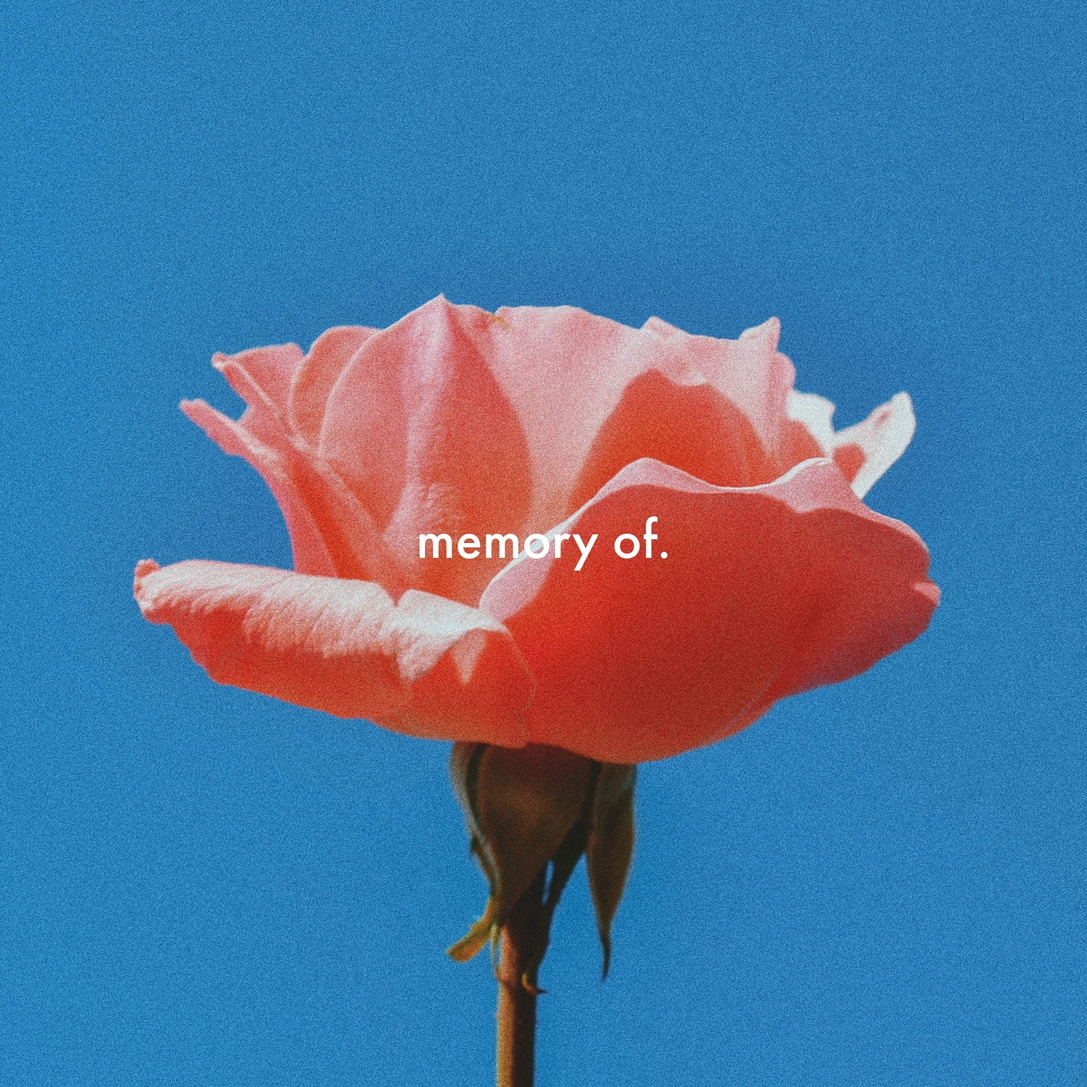
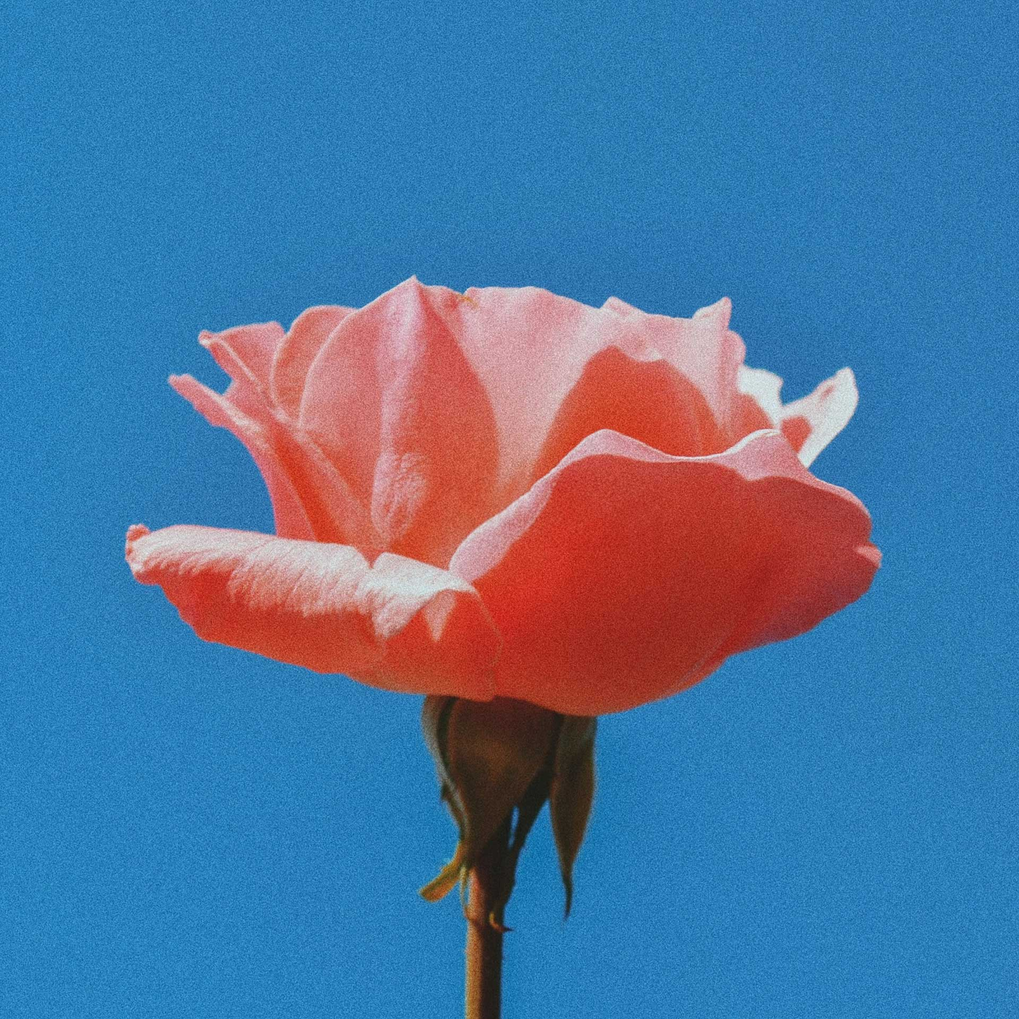
updated tablet and mobile styling to not get wider than the viewport. removed the text from the background image and compressed the image for a smaller size. Removed unneccesary files

Changed region(s): [[0.3438, 0.4688, 0.625, 0.5312]]

diff --git a/css/output.min.css b/css/output.min.css
@@ -1,1 +1,1 @@
-*,::before,::after{box-sizing:border-box;border-width:0;border-style:solid;border-color:currentColor}::before,::after{--tw-content:''}html,:host{line-height:1.5;-webkit-text-size-adjust:100%;-moz-tab-size:4;-o-tab-size:4;tab-size:4;font-family:ui-sans-serif,system-ui,sans-serif,"Apple Color Emoji","Segoe UI Emoji","Segoe UI Symbol","Noto Color Emoji";font-feature-settings:normal;font-variation-settings:normal;-webkit-tap-highlight-color:transparent}body{margin:0;line-height:inherit}hr{height:0;color:inherit;border-top-width:1px}abbr:where([title]){-webkit-text-decoration:underline dotted;text-decoration:underline dotted}h1,h2,h3,h4,h5,h6{font-size:inherit;font-weight:inherit}a{color:inherit;text-decoration:inherit}b,strong{font-weight:bolder}code,kbd,samp,pre{font-family:ui-monospace,SFMono-Regular,Menlo,Monaco,Consolas,"Liberation Mono","Courier New",monospace;font-feature-settings:normal;font-variation-settings:normal;font-size:1em}small{font-size:80%}sub,sup{font-size:75%;line-height:0;position:relative;vertical-align:baseline}sub{bottom:-0.25em}sup{top:-0.5em}table{text-indent:0;border-color:inherit;border-collapse:collapse}button,input,optgroup,select,textarea{font-family:inherit;font-feature-settings:inherit;font-variation-settings:inherit;font-size:100%;font-weight:inherit;line-height:inherit;color:inherit;margin:0;padding:0}button,select{text-transform:none}button,[type='button'],[type='reset'],[type='submit']{-webkit-appearance:button;background-color:transparent;background-image:none}:-moz-focusring{outline:auto}:-moz-ui-invalid{box-shadow:none}progress{vertical-align:baseline}::-webkit-inner-spin-button,::-webkit-outer-spin-button{height:auto}[type='search']{-webkit-appearance:textfield;outline-offset:-2px}::-webkit-search-decoration{-webkit-appearance:none}::-webkit-file-upload-button{-webkit-appearance:button;font:inherit}summary{display:list-item}blockquote,dl,dd,h1,h2,h3,h4,h5,h6,hr,figure,p,pre{margin:0}fieldset{margin:0;padding:0}legend{padding:0}ol,ul,menu{list-style:none;margin:0;padding:0}dialog{padding:0}textarea{resize:vertical}input::-moz-placeholder,textarea::-moz-placeholder{opacity:1;color:#9ca3af}input::placeholder,textarea::placeholder{opacity:1;color:#9ca3af}button,[role="button"]{cursor:pointer}:disabled{cursor:default}img,svg,video,canvas,audio,iframe,embed,object{display:block;vertical-align:middle}img,video{max-width:100%;height:auto}[hidden]{display:none}*,::before,::after{--tw-border-spacing-x:0;--tw-border-spacing-y:0;--tw-translate-x:0;--tw-translate-y:0;--tw-rotate:0;--tw-skew-x:0;--tw-skew-y:0;--tw-scale-x:1;--tw-scale-y:1;--tw-pan-x:;--tw-pan-y:;--tw-pinch-zoom:;--tw-scroll-snap-strictness:proximity;--tw-gradient-from-position:;--tw-gradient-via-position:;--tw-gradient-to-position:;--tw-ordinal:;--tw-slashed-zero:;--tw-numeric-figure:;--tw-numeric-spacing:;--tw-numeric-fraction:;--tw-ring-inset:;--tw-ring-offset-width:0;--tw-ring-offset-color:#fff;--tw-ring-color:rgb(59 130 246 / .5);--tw-ring-offset-shadow:0 0 #0000;--tw-ring-shadow:0 0 #0000;--tw-shadow:0 0 #0000;--tw-shadow-colored:0 0 #0000;--tw-blur:;--tw-brightness:;--tw-contrast:;--tw-grayscale:;--tw-hue-rotate:;--tw-invert:;--tw-saturate:;--tw-sepia:;--tw-drop-shadow:;--tw-backdrop-blur:;--tw-backdrop-brightness:;--tw-backdrop-contrast:;--tw-backdrop-grayscale:;--tw-backdrop-hue-rotate:;--tw-backdrop-invert:;--tw-backdrop-opacity:;--tw-backdrop-saturate:;--tw-backdrop-sepia:}::backdrop{--tw-border-spacing-x:0;--tw-border-spacing-y:0;--tw-translate-x:0;--tw-translate-y:0;--tw-rotate:0;--tw-skew-x:0;--tw-skew-y:0;--tw-scale-x:1;--tw-scale-y:1;--tw-pan-x:;--tw-pan-y:;--tw-pinch-zoom:;--tw-scroll-snap-strictness:proximity;--tw-gradient-from-position:;--tw-gradient-via-position:;--tw-gradient-to-position:;--tw-ordinal:;--tw-slashed-zero:;--tw-numeric-figure:;--tw-numeric-spacing:;--tw-numeric-fraction:;--tw-ring-inset:;--tw-ring-offset-width:0;--tw-ring-offset-color:#fff;--tw-ring-color:rgb(59 130 246 / .5);--tw-ring-offset-shadow:0 0 #0000;--tw-ring-shadow:0 0 #0000;--tw-shadow:0 0 #0000;--tw-shadow-colored:0 0 #0000;--tw-blur:;--tw-brightness:;--tw-contrast:;--tw-grayscale:;--tw-hue-rotate:;--tw-invert:;--tw-saturate:;--tw-sepia:;--tw-drop-shadow:;--tw-backdrop-blur:;--tw-backdrop-brightness:;--tw-backdrop-contrast:;--tw-backdrop-grayscale:;--tw-backdrop-hue-rotate:;--tw-backdrop-invert:;--tw-backdrop-opacity:;--tw-backdrop-saturate:;--tw-backdrop-sepia:}.sr-only{position:absolute;width:1px;height:1px;padding:0;margin:-1px;overflow:hidden;clip:rect(0,0,0,0);white-space:nowrap;border-width:0}.fixed{position:fixed}.absolute{position:absolute}.relative{position:relative}.bottom-0{bottom:0}.left-0{left:0}.right-0{right:0}.top-0{top:0}.z-50{z-index:50}.col-span-full{grid-column:1 / -1}.mx-2{margin-left:.5rem;margin-right:.5rem}.mx-auto{margin-left:auto;margin-right:auto}.mb-2{margin-bottom:.5rem}.mb-5{margin-bottom:1.25rem}.ml-4{margin-left:1rem}.mt-2{margin-top:.5rem}.mt-4{margin-top:1rem}.mt-5{margin-top:1.25rem}.mt-7{margin-top:1.75rem}.mt-9{margin-top:2.25rem}.block{display:block}.inline{display:inline}.flex{display:flex}.inline-flex{display:inline-flex}.hidden{display:none}.h-0{height:0}.h-0\.5{height:.125rem}.h-11{height:2.75rem}.h-12{height:3rem}.h-6{height:1.5rem}.h-\[360px\]{height:360px}.h-auto{height:auto}.max-h-7{max-height:1.75rem}.min-h-\[360px\]{min-height:360px}.w-0{width:0}.w-0\.5{width:.125rem}.w-12{width:3rem}.w-6{width:1.5rem}.w-full{width:100%}.min-w-0{min-width:0}.min-w-\[360px\]{min-width:360px}.max-w-7xl{max-width:80rem}.max-w-\[360px\]{max-width:360px}.flex-1{flex:1 1 0%}.cursor-pointer{cursor:pointer}.flex-col{flex-direction:column}.items-center{align-items:center}.justify-end{justify-content:flex-end}.justify-center{justify-content:center}.justify-between{justify-content:space-between}.gap-2{gap:.5rem}.gap-x-2{-moz-column-gap:.5rem;column-gap:.5rem}.gap-x-6{-moz-column-gap:1.5rem;column-gap:1.5rem}.divide-y>:not([hidden]) ~ :not([hidden]){--tw-divide-y-reverse:0;border-top-width:calc(1px * calc(1 - var(--tw-divide-y-reverse)));border-bottom-width:calc(1px * var(--tw-divide-y-reverse))}.truncate{overflow:hidden;text-overflow:ellipsis;white-space:nowrap}.rounded-full{border-radius:9999px}.rounded-lg{border-radius:.5rem}.rounded-md{border-radius:.375rem}.border{border-width:1px}.border-t{border-top-width:1px}.border-solid{border-style:solid}.border-dashed{border-style:dashed}.p-10{padding:2.5rem}.p-2{padding:.5rem}.p-2\.5{padding:.625rem}.p-4{padding:1rem}.px-2{padding-left:.5rem;padding-right:.5rem}.px-3{padding-left:.75rem;padding-right:.75rem}.px-3\.5{padding-left:.875rem;padding-right:.875rem}.px-4{padding-left:1rem;padding-right:1rem}.px-6{padding-left:1.5rem;padding-right:1.5rem}.py-1{padding-top:.25rem;padding-bottom:.25rem}.py-12{padding-top:3rem;padding-bottom:3rem}.py-2{padding-top:.5rem;padding-bottom:.5rem}.py-2\.5{padding-top:.625rem;padding-bottom:.625rem}.py-3{padding-top:.75rem;padding-bottom:.75rem}.py-3\.5{padding-top:.875rem;padding-bottom:.875rem}.py-4{padding-top:1rem;padding-bottom:1rem}.py-6{padding-top:1.5rem;padding-bottom:1.5rem}.pb-20{padding-bottom:5rem}.pl-1{padding-left:.25rem}.pl-4{padding-left:1rem}.pr-5{padding-right:1.25rem}.text-center{text-align:center}.text-2xl{font-size:1.5rem;line-height:2rem}.text-3xl{font-size:1.875rem;line-height:2.25rem}.text-sm{font-size:.875rem;line-height:1.25rem}.text-xs{font-size:.75rem;line-height:1rem}.font-black{font-weight:900}.font-medium{font-weight:500}.font-semibold{font-weight:600}.leading-5{line-height:1.25rem}.leading-6{line-height:1.5rem}.shadow-sm{--tw-shadow:0 1px 2px 0 rgb(0 0 0 / .05);--tw-shadow-colored:0 1px 2px 0 var(--tw-shadow-color);box-shadow:var(--tw-ring-offset-shadow,0 0 #0000),var(--tw-ring-shadow,0 0 #0000),var(--tw-shadow)}.focus-within\:outline-none:focus-within{outline:2px solid transparent;outline-offset:2px}.focus-within\:ring-2:focus-within{--tw-ring-offset-shadow:var(--tw-ring-inset) 0 0 0 var(--tw-ring-offset-width) var(--tw-ring-offset-color);--tw-ring-shadow:var(--tw-ring-inset) 0 0 0 calc(2px + var(--tw-ring-offset-width)) var(--tw-ring-color);box-shadow:var(--tw-ring-offset-shadow),var(--tw-ring-shadow),var(--tw-shadow,0 0 #0000)}.focus-within\:ring-offset-2:focus-within{--tw-ring-offset-width:2px}.focus-visible\:outline:focus-visible{outline-style:solid}.focus-visible\:outline-2:focus-visible{outline-width:2px}.focus-visible\:outline-offset-2:focus-visible{outline-offset:2px}@media(min-width:640px){.sm\:col-span-2{grid-column:span 2 / span 2}.sm\:mx-auto{margin-left:auto;margin-right:auto}.sm\:w-full{width:100%}.sm\:max-w-md{max-width:28rem}.sm\:px-0{padding-left:0;padding-right:0}.sm\:px-3{padding-left:.75rem;padding-right:.75rem}.sm\:px-3\.5{padding-left:.875rem;padding-right:.875rem}.sm\:before\:flex-1::before{content:var(--tw-content);flex:1 1 0%}}@media(min-width:768px){.md\:min-h-screen{min-height:100vh}}@media(min-width:1024px){.lg\:-mr-8{margin-right:-2rem}.lg\:grid{display:grid}.lg\:grid-cols-12{grid-template-columns:repeat(12,minmax(0,1fr))}.lg\:gap-x-8{-moz-column-gap:2rem;column-gap:2rem}.lg\:px-8{padding-left:2rem;padding-right:2rem}}@media(min-width:1280px){.xl\:absolute{position:absolute}.xl\:inset-0{inset:0}.xl\:mr-0{margin-right:0}}
+*,::before,::after{box-sizing:border-box;border-width:0;border-style:solid;border-color:#e5e7eb}::before,::after{--tw-content:''}html,:host{line-height:1.5;-webkit-text-size-adjust:100%;-moz-tab-size:4;-o-tab-size:4;tab-size:4;font-family:ui-sans-serif,system-ui,sans-serif,"Apple Color Emoji","Segoe UI Emoji","Segoe UI Symbol","Noto Color Emoji";font-feature-settings:normal;font-variation-settings:normal;-webkit-tap-highlight-color:transparent}body{margin:0;line-height:inherit}hr{height:0;color:inherit;border-top-width:1px}abbr:where([title]){-webkit-text-decoration:underline dotted;text-decoration:underline dotted}h1,h2,h3,h4,h5,h6{font-size:inherit;font-weight:inherit}a{color:inherit;text-decoration:inherit}b,strong{font-weight:bolder}code,kbd,samp,pre{font-family:ui-monospace,SFMono-Regular,Menlo,Monaco,Consolas,"Liberation Mono","Courier New",monospace;font-feature-settings:normal;font-variation-settings:normal;font-size:1em}small{font-size:80%}sub,sup{font-size:75%;line-height:0;position:relative;vertical-align:baseline}sub{bottom:-0.25em}sup{top:-0.5em}table{text-indent:0;border-color:inherit;border-collapse:collapse}button,input,optgroup,select,textarea{font-family:inherit;font-feature-settings:inherit;font-variation-settings:inherit;font-size:100%;font-weight:inherit;line-height:inherit;color:inherit;margin:0;padding:0}button,select{text-transform:none}button,[type='button'],[type='reset'],[type='submit']{-webkit-appearance:button;background-color:transparent;background-image:none}:-moz-focusring{outline:auto}:-moz-ui-invalid{box-shadow:none}progress{vertical-align:baseline}::-webkit-inner-spin-button,::-webkit-outer-spin-button{height:auto}[type='search']{-webkit-appearance:textfield;outline-offset:-2px}::-webkit-search-decoration{-webkit-appearance:none}::-webkit-file-upload-button{-webkit-appearance:button;font:inherit}summary{display:list-item}blockquote,dl,dd,h1,h2,h3,h4,h5,h6,hr,figure,p,pre{margin:0}fieldset{margin:0;padding:0}legend{padding:0}ol,ul,menu{list-style:none;margin:0;padding:0}dialog{padding:0}textarea{resize:vertical}input::-moz-placeholder,textarea::-moz-placeholder{opacity:1;color:#9ca3af}input::placeholder,textarea::placeholder{opacity:1;color:#9ca3af}button,[role="button"]{cursor:pointer}:disabled{cursor:default}img,svg,video,canvas,audio,iframe,embed,object{display:block;vertical-align:middle}img,video{max-width:100%;height:auto}[hidden]{display:none}*,::before,::after{--tw-border-spacing-x:0;--tw-border-spacing-y:0;--tw-translate-x:0;--tw-translate-y:0;--tw-rotate:0;--tw-skew-x:0;--tw-skew-y:0;--tw-scale-x:1;--tw-scale-y:1;--tw-pan-x:;--tw-pan-y:;--tw-pinch-zoom:;--tw-scroll-snap-strictness:proximity;--tw-gradient-from-position:;--tw-gradient-via-position:;--tw-gradient-to-position:;--tw-ordinal:;--tw-slashed-zero:;--tw-numeric-figure:;--tw-numeric-spacing:;--tw-numeric-fraction:;--tw-ring-inset:;--tw-ring-offset-width:0;--tw-ring-offset-color:#fff;--tw-ring-color:rgb(59 130 246 / .5);--tw-ring-offset-shadow:0 0 #0000;--tw-ring-shadow:0 0 #0000;--tw-shadow:0 0 #0000;--tw-shadow-colored:0 0 #0000;--tw-blur:;--tw-brightness:;--tw-contrast:;--tw-grayscale:;--tw-hue-rotate:;--tw-invert:;--tw-saturate:;--tw-sepia:;--tw-drop-shadow:;--tw-backdrop-blur:;--tw-backdrop-brightness:;--tw-backdrop-contrast:;--tw-backdrop-grayscale:;--tw-backdrop-hue-rotate:;--tw-backdrop-invert:;--tw-backdrop-opacity:;--tw-backdrop-saturate:;--tw-backdrop-sepia:}::backdrop{--tw-border-spacing-x:0;--tw-border-spacing-y:0;--tw-translate-x:0;--tw-translate-y:0;--tw-rotate:0;--tw-skew-x:0;--tw-skew-y:0;--tw-scale-x:1;--tw-scale-y:1;--tw-pan-x:;--tw-pan-y:;--tw-pinch-zoom:;--tw-scroll-snap-strictness:proximity;--tw-gradient-from-position:;--tw-gradient-via-position:;--tw-gradient-to-position:;--tw-ordinal:;--tw-slashed-zero:;--tw-numeric-figure:;--tw-numeric-spacing:;--tw-numeric-fraction:;--tw-ring-inset:;--tw-ring-offset-width:0;--tw-ring-offset-color:#fff;--tw-ring-color:rgb(59 130 246 / .5);--tw-ring-offset-shadow:0 0 #0000;--tw-ring-shadow:0 0 #0000;--tw-shadow:0 0 #0000;--tw-shadow-colored:0 0 #0000;--tw-blur:;--tw-brightness:;--tw-contrast:;--tw-grayscale:;--tw-hue-rotate:;--tw-invert:;--tw-saturate:;--tw-sepia:;--tw-drop-shadow:;--tw-backdrop-blur:;--tw-backdrop-brightness:;--tw-backdrop-contrast:;--tw-backdrop-grayscale:;--tw-backdrop-hue-rotate:;--tw-backdrop-invert:;--tw-backdrop-opacity:;--tw-backdrop-saturate:;--tw-backdrop-sepia:}.sr-only{position:absolute;width:1px;height:1px;padding:0;margin:-1px;overflow:hidden;clip:rect(0,0,0,0);white-space:nowrap;border-width:0}.fixed{position:fixed}.absolute{position:absolute}.relative{position:relative}.bottom-0{bottom:0}.left-0{left:0}.right-0{right:0}.top-0{top:0}.z-50{z-index:50}.col-span-full{grid-column:1 / -1}.m-0{margin:0}.mx-auto{margin-left:auto;margin-right:auto}.mb-2{margin-bottom:.5rem}.mb-5{margin-bottom:1.25rem}.ml-4{margin-left:1rem}.mt-2{margin-top:.5rem}.mt-4{margin-top:1rem}.mt-5{margin-top:1.25rem}.mt-7{margin-top:1.75rem}.mt-9{margin-top:2.25rem}.block{display:block}.flex{display:flex}.inline-flex{display:inline-flex}.hidden{display:none}.h-11{height:2.75rem}.h-12{height:3rem}.h-6{height:1.5rem}.h-auto{height:auto}.min-h-\[250px\]{min-height:250px}.w-0{width:0}.w-12{width:3rem}.w-6{width:1.5rem}.w-full{width:100%}.min-w-0{min-width:0}.min-w-\[250px\]{min-width:250px}.max-w-7xl{max-width:80rem}.flex-1{flex:1 1 0%}.cursor-pointer{cursor:pointer}.flex-col{flex-direction:column}.items-center{align-items:center}.justify-end{justify-content:flex-end}.justify-center{justify-content:center}.justify-between{justify-content:space-between}.gap-2{gap:.5rem}.gap-x-2{-moz-column-gap:.5rem;column-gap:.5rem}.gap-x-6{-moz-column-gap:1.5rem;column-gap:1.5rem}.divide-y>:not([hidden]) ~ :not([hidden]){--tw-divide-y-reverse:0;border-top-width:calc(1px * calc(1 - var(--tw-divide-y-reverse)));border-bottom-width:calc(1px * var(--tw-divide-y-reverse))}.divide-gray-100>:not([hidden]) ~ :not([hidden]){--tw-divide-opacity:1;border-color:rgb(243 244 246 / var(--tw-divide-opacity))}.truncate{overflow:hidden;text-overflow:ellipsis;white-space:nowrap}.rounded-full{border-radius:9999px}.rounded-lg{border-radius:.5rem}.rounded-md{border-radius:.375rem}.border{border-width:1px}.border-t{border-top-width:1px}.border-dashed{border-style:dashed}.border-gray-100{--tw-border-opacity:1;border-color:rgb(243 244 246 / var(--tw-border-opacity))}.border-gray-200{--tw-border-opacity:1;border-color:rgb(229 231 235 / var(--tw-border-opacity))}.border-gray-900\/25{border-color:rgb(17 24 39 / .25)}.bg-customYellow{--tw-bg-opacity:1;background-color:rgb(255 255 0 / var(--tw-bg-opacity))}.bg-gray-100{--tw-bg-opacity:1;background-color:rgb(243 244 246 / var(--tw-bg-opacity))}.bg-slate-900{--tw-bg-opacity:1;background-color:rgb(15 23 42 / var(--tw-bg-opacity))}.bg-transparent{background-color:transparent}.bg-white{--tw-bg-opacity:1;background-color:rgb(255 255 255 / var(--tw-bg-opacity))}.p-0{padding:0}.p-10{padding:2.5rem}.p-2{padding:.5rem}.p-2\.5{padding:.625rem}.p-4{padding:1rem}.p-5{padding:1.25rem}.px-3{padding-left:.75rem;padding-right:.75rem}.px-3\.5{padding-left:.875rem;padding-right:.875rem}.px-4{padding-left:1rem;padding-right:1rem}.px-6{padding-left:1.5rem;padding-right:1.5rem}.py-2{padding-top:.5rem;padding-bottom:.5rem}.py-2\.5{padding-top:.625rem;padding-bottom:.625rem}.py-3{padding-top:.75rem;padding-bottom:.75rem}.py-3\.5{padding-top:.875rem;padding-bottom:.875rem}.py-4{padding-top:1rem;padding-bottom:1rem}.py-6{padding-top:1.5rem;padding-bottom:1.5rem}.pb-20{padding-bottom:5rem}.pl-1{padding-left:.25rem}.pl-4{padding-left:1rem}.pr-5{padding-right:1.25rem}.text-center{text-align:center}.text-2xl{font-size:1.5rem;line-height:2rem}.text-3xl{font-size:1.875rem;line-height:2.25rem}.text-sm{font-size:.875rem;line-height:1.25rem}.text-xs{font-size:.75rem;line-height:1rem}.font-black{font-weight:900}.font-medium{font-weight:500}.font-semibold{font-weight:600}.leading-5{line-height:1.25rem}.leading-6{line-height:1.5rem}.text-black{--tw-text-opacity:1;color:rgb(0 0 0 / var(--tw-text-opacity))}.text-gray-300{--tw-text-opacity:1;color:rgb(209 213 219 / var(--tw-text-opacity))}.text-gray-600{--tw-text-opacity:1;color:rgb(75 85 99 / var(--tw-text-opacity))}.text-gray-900{--tw-text-opacity:1;color:rgb(17 24 39 / var(--tw-text-opacity))}.text-indigo-600{--tw-text-opacity:1;color:rgb(79 70 229 / var(--tw-text-opacity))}.text-white{--tw-text-opacity:1;color:rgb(255 255 255 / var(--tw-text-opacity))}.shadow-sm{--tw-shadow:0 1px 2px 0 rgb(0 0 0 / .05);--tw-shadow-colored:0 1px 2px 0 var(--tw-shadow-color);box-shadow:var(--tw-ring-offset-shadow,0 0 #0000),var(--tw-ring-shadow,0 0 #0000),var(--tw-shadow)}.focus-within\:outline-none:focus-within{outline:2px solid transparent;outline-offset:2px}.focus-within\:ring-2:focus-within{--tw-ring-offset-shadow:var(--tw-ring-inset) 0 0 0 var(--tw-ring-offset-width) var(--tw-ring-offset-color);--tw-ring-shadow:var(--tw-ring-inset) 0 0 0 calc(2px + var(--tw-ring-offset-width)) var(--tw-ring-color);box-shadow:var(--tw-ring-offset-shadow),var(--tw-ring-shadow),var(--tw-shadow,0 0 #0000)}.focus-within\:ring-indigo-600:focus-within{--tw-ring-opacity:1;--tw-ring-color:rgb(79 70 229 / var(--tw-ring-opacity))}.focus-within\:ring-offset-2:focus-within{--tw-ring-offset-width:2px}.hover\:bg-black:hover{--tw-bg-opacity:1;background-color:rgb(0 0 0 / var(--tw-bg-opacity))}.hover\:bg-indigo-500:hover{--tw-bg-opacity:1;background-color:rgb(99 102 241 / var(--tw-bg-opacity))}.hover\:bg-slate-700:hover{--tw-bg-opacity:1;background-color:rgb(51 65 85 / var(--tw-bg-opacity))}.hover\:text-indigo-500:hover{--tw-text-opacity:1;color:rgb(99 102 241 / var(--tw-text-opacity))}.hover\:text-white:hover{--tw-text-opacity:1;color:rgb(255 255 255 / var(--tw-text-opacity))}.focus-visible\:outline:focus-visible{outline-style:solid}.focus-visible\:outline-2:focus-visible{outline-width:2px}.focus-visible\:outline-offset-2:focus-visible{outline-offset:2px}.focus-visible\:outline-indigo-600:focus-visible{outline-color:#4f46e5}@media(min-width:640px){.sm\:col-span-2{grid-column:span 2 / span 2}.sm\:max-h-\[250px\]{max-height:250px}.sm\:max-w-\[250px\]{max-width:250px}.sm\:max-w-\[360px\]{max-width:360px}.sm\:px-0{padding-left:0;padding-right:0}.sm\:px-3{padding-left:.75rem;padding-right:.75rem}.sm\:px-3\.5{padding-left:.875rem;padding-right:.875rem}.sm\:before\:flex-1::before{content:var(--tw-content);flex:1 1 0%}}@media(min-width:768px){.md\:min-h-screen{min-height:100vh}}@media(min-width:1024px){.lg\:-mr-8{margin-right:-2rem}.lg\:w-\[460px\]{width:460px}}@media(min-width:1280px){.xl\:absolute{position:absolute}.xl\:inset-0{inset:0}.xl\:mr-0{margin-right:0}}

diff --git a/index.html b/index.html
@@ -3,39 +3,37 @@
 
 <head>
     <title>C|Life Easter Photo Frame App</title>
+    <meta name="viewport" content="width=device-width, initial-scale=1.0">
     <script src="https://ajax.googleapis.com/ajax/libs/jquery/3.5.1/jquery.min.js"></script>
     <link href="css/output.min.css" rel="stylesheet" />
     <script src="js/main.js"></script>
 </head>
 
-<body style="background: #2c72ad">
+<body style="background: #2c72ad" class="p-0 m-0">
     <a href="https://clifec.com/easter">
         <div
-            class="fixed left-0 top-0 z-50 flex w-full items-center gap-x-6 bg-customYellow px-6 py-2.5 text-black hover:bg-black hover:text-white sm:px-3.5 sm:before:flex-1">
+            class="fixed left-0 top-0 z-50 flex w-full items-center gap-x-6 bg-customYellow px-6 py-2.5 text-black hover:bg-black hover:text-white sm:px-3.5 sm:before:flex-1 p-5">
             <p class="text-sm leading-6 text-center">
-                <strong class="font-semibold">Easter at cLife</strong><svg class="mx-2 inline h-0.5 w-0.5 fill-current"
-                    aria-hidden="true" viewBox="0 0 2 2">
-                    <circle cx="1" cy="1" r="1" />
-                </svg>Click here to see our locations and service times!<span aria-hidden="true">&rarr;</span>
+                <strong class="font-semibold">Easter at cLife - </strong>
+                See our locations and times!&nbsp;<span aria-hidden="true">&rarr;</span>
             </p>
             <div class="flex justify-end flex-1">
             </div>
         </div>
     </a>
     <div class="relative bg-white md:min-h-screen">
-        <div class="mx-auto max-w-7xl lg:grid lg:grid-cols-12 lg:gap-x-8 lg:px-8">
-            <div class="relative flex flex-col items-center justify-center py-12 lg:-mr-8 xl:absolute xl:inset-0 xl:mr-0"
-                style="background-image: url('images/background.jpg');background-position: center;background-size: cover;min-height: 100vh;">
+        <div class="mx-auto max-w-7xl">
+            <div class="relative flex flex-col items-center justify-center py-18 lg:-mr-8 xl:absolute xl:inset-0 xl:mr-0"
+                style="background-image: url('images/background.jpg');background-position: center;background-size: cover;min-height: 100vh; padding-top:100px;padding-bottom: 80px;">
                 <img class="mb-5 h-11" src="images/logo-white.png" />
-                <div class="p-4 bg-transparent border border-white">
-                    <div class="relative min-w-[360px] bg-white p-10 pb-20 sm:mx-auto sm:w-full sm:max-w-md">
+                <!-- <div class="p-4 bg-transparent border border-bg-white border-1px" style="max-width: 80vw;"> -->
+                    <div class="relative lg:w-[460px] w-full bg-white p-10 pb-20" style="max-width: 90vw;">
                         <div class="col-span-full">
                             <div class="step-one">
                                 <button
                                     class="absolute right-0 top-0 inline-flex w-full items-center justify-center gap-x-2 bg-slate-900 px-3.5 py-3 text-center text-sm font-semibold text-white shadow-sm"
                                     type="button">
-                                    <img class="px-2 py-1 border border-solid rounded-full border-white-1 max-h-7"
-                                        src="images/clifelogoicon.svg" />
+                  
                                     Create Your Social Media Easter Frame
                                 </button>
                                 <h2 class="text-3xl font-black mt-9">Step 1:</h2>
@@ -50,12 +48,12 @@
                                                 d="M1.5 6a2.25 2.25 0 012.25-2.25h16.5A2.25 2.25 0 0122.5 6v12a2.25 2.25 0 01-2.25 2.25H3.75A2.25 2.25 0 011.5 18V6zM3 16.06V18c0 .414.336.75.75.75h16.5A.75.75 0 0021 18v-1.94l-2.69-2.689a1.5 1.5 0 00-2.12 0l-.88.879.97.97a.75.75 0 11-1.06 1.06l-5.16-5.159a1.5 1.5 0 00-2.12 0L3 16.061zm10.125-7.81a1.125 1.125 0 112.25 0 1.125 1.125 0 01-2.25 0z"
                                                 clip-rule="evenodd" />
                                         </svg>
-                                        <div class="flex mt-4 text-sm leading-6 text-gray-600">
+                                        <div class="flex flex-col mt-4 text-sm leading-6 text-gray-600">
                                             <label
                                                 class="relative font-semibold text-indigo-600 bg-white rounded-md cursor-pointer focus-within:outline-none focus-within:ring-2 focus-within:ring-indigo-600 focus-within:ring-offset-2 hover:text-indigo-500"
                                                 for="upload">
-                                                <span>Click here to upload</span>
-                                                <input class="sr-only" id="upload" type="file" accept="image/*" />
+                                                <span>Click here to upload</span><br>
+                                                <input class="sr-only" id="upload" type="file" />
                                             </label>
                                             <p class="pl-1">or drag and drop</p>
                                         </div>
@@ -66,7 +64,7 @@
                                 </div>
                             </div>
                         </div>
-                        <div class="hidden step-two">
+                        <div class="hidden step-two sm:max-w-[360px]">
                             <!-- <input id="upload" type="file" accept="image/*"/><br> -->
                             <h2 class="mt-5 text-2xl font-black">Step 2:</h2>
                             <label class="block text-sm font-medium leading-6 text-gray-900" for="cover-photo">Select
@@ -76,8 +74,8 @@
                                 <option value="frame2">Frame 2</option>
                                 <option value="frame3">Frame 3</option>
                             </select><br />
-                            <div class="mb-2 mt-7 h-[360px] max-w-[360px] rounded-full">
-                                <canvas class="h-auto min-h-[360px] w-full min-w-[360px] rounded-full bg-gray-100"
+                            <div class="mb-2 rounded-full mt-7 min-h-[250px] w-full min-w-[250px] sm:max-w-[250px] sm:max-h-[250px]">
+                                <canvas class="h-auto min-h-[250px] w-full min-w-[250px] sm:max-w-[250px] sm:max-h-[250px] rounded-full bg-gray-100"
                                     id="canvas"></canvas><br />
                             </div>
                             <button
@@ -156,7 +154,7 @@
 
                         </div>
                     </div>
-                </div>
+                <!-- </div> -->
             </div>
         </div>
     </div>

diff --git a/js/main.js b/js/main.js
@@ -95,8 +95,9 @@ $(document).ready(function () {
     // Download the final image
     $('#download').click(function () {
         var downloadLink = document.createElement('a');
-        downloadLink.href = canvas.toDataURL('image/png');
-        downloadLink.download = 'profile_with_frame.png';
+        // Adjust the quality parameter to reduce file size
+        downloadLink.href = canvas.toDataURL('image/jpeg', 0.75); // Compress with 75% quality
+        downloadLink.download = 'profile_with_frame.jpg';
         document.body.appendChild(downloadLink);
         downloadLink.click();
         document.body.removeChild(downloadLink);
@@ -104,7 +105,6 @@ $(document).ready(function () {
             $('.step-two').addClass('hidden');
             $('.step-three').removeClass('hidden');
         }, 700);
-
     });
     $('.start').click(function () {
         // $('.step-two').addClass('hidden');

diff --git a/tailwind.config.js b/tailwind.config.js
@@ -2,10 +2,12 @@
 module.exports = {
   content: ['index.html'],
   theme: {
-    extend: {},
-    colors: {
-      customYellow: '#ffff00', // Add your custom color here
+    extend: {
+      colors: {
+        customYellow: '#ffff00', // Add your custom color here
+      },
     },
+
   },
   plugins: [],
 }
